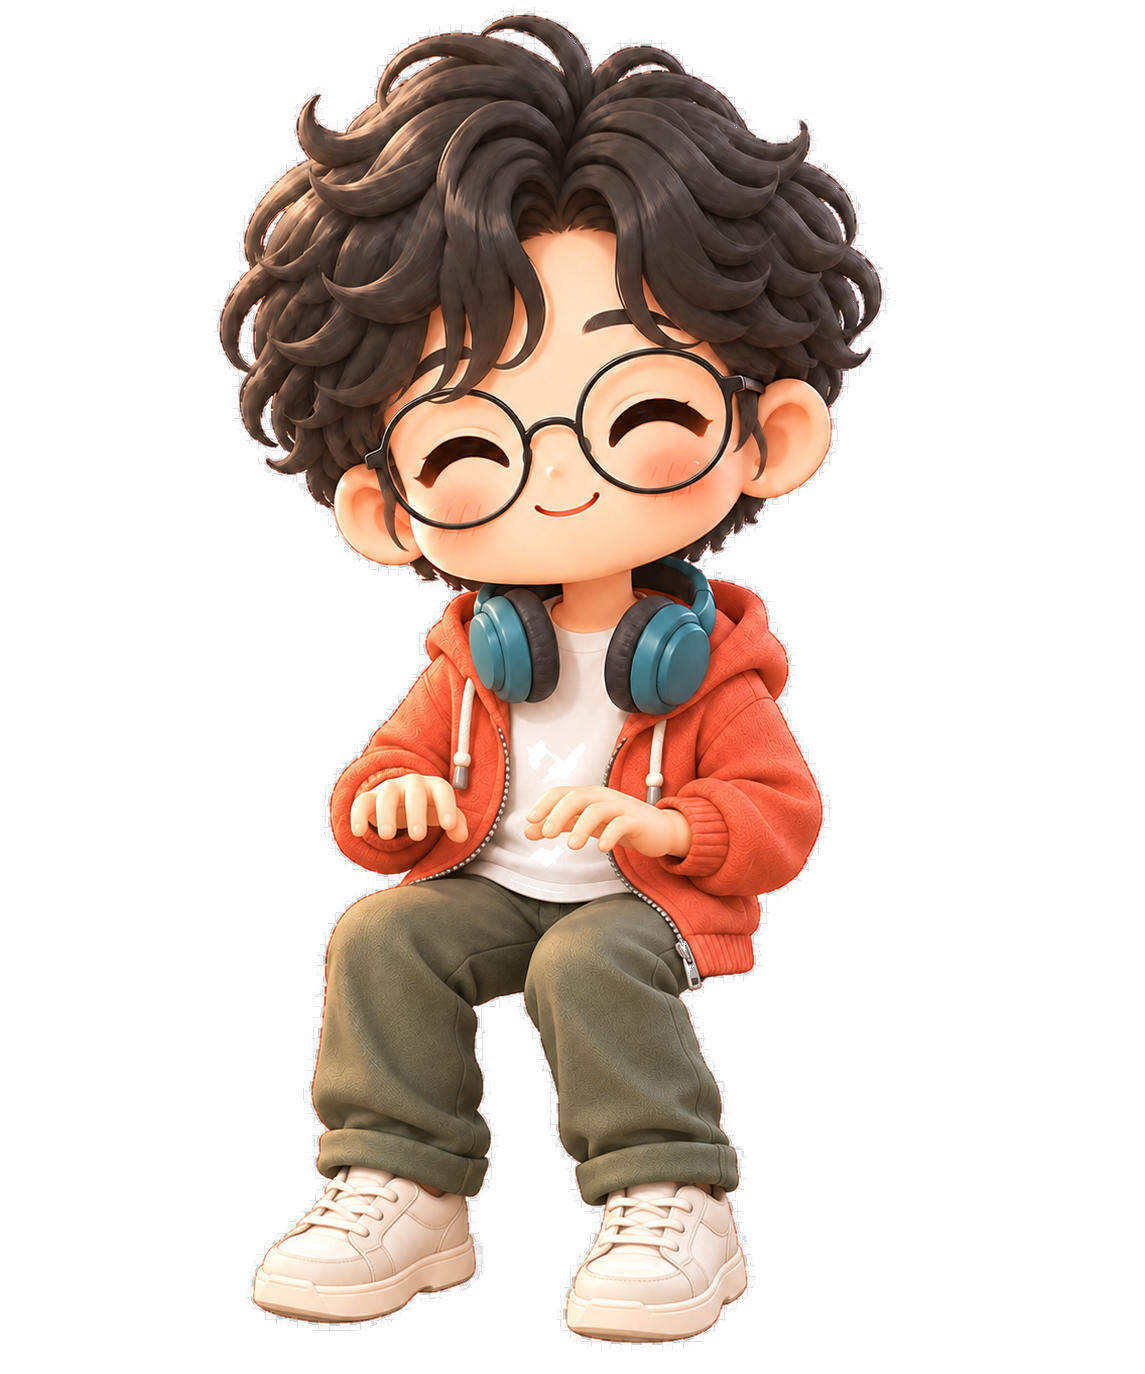
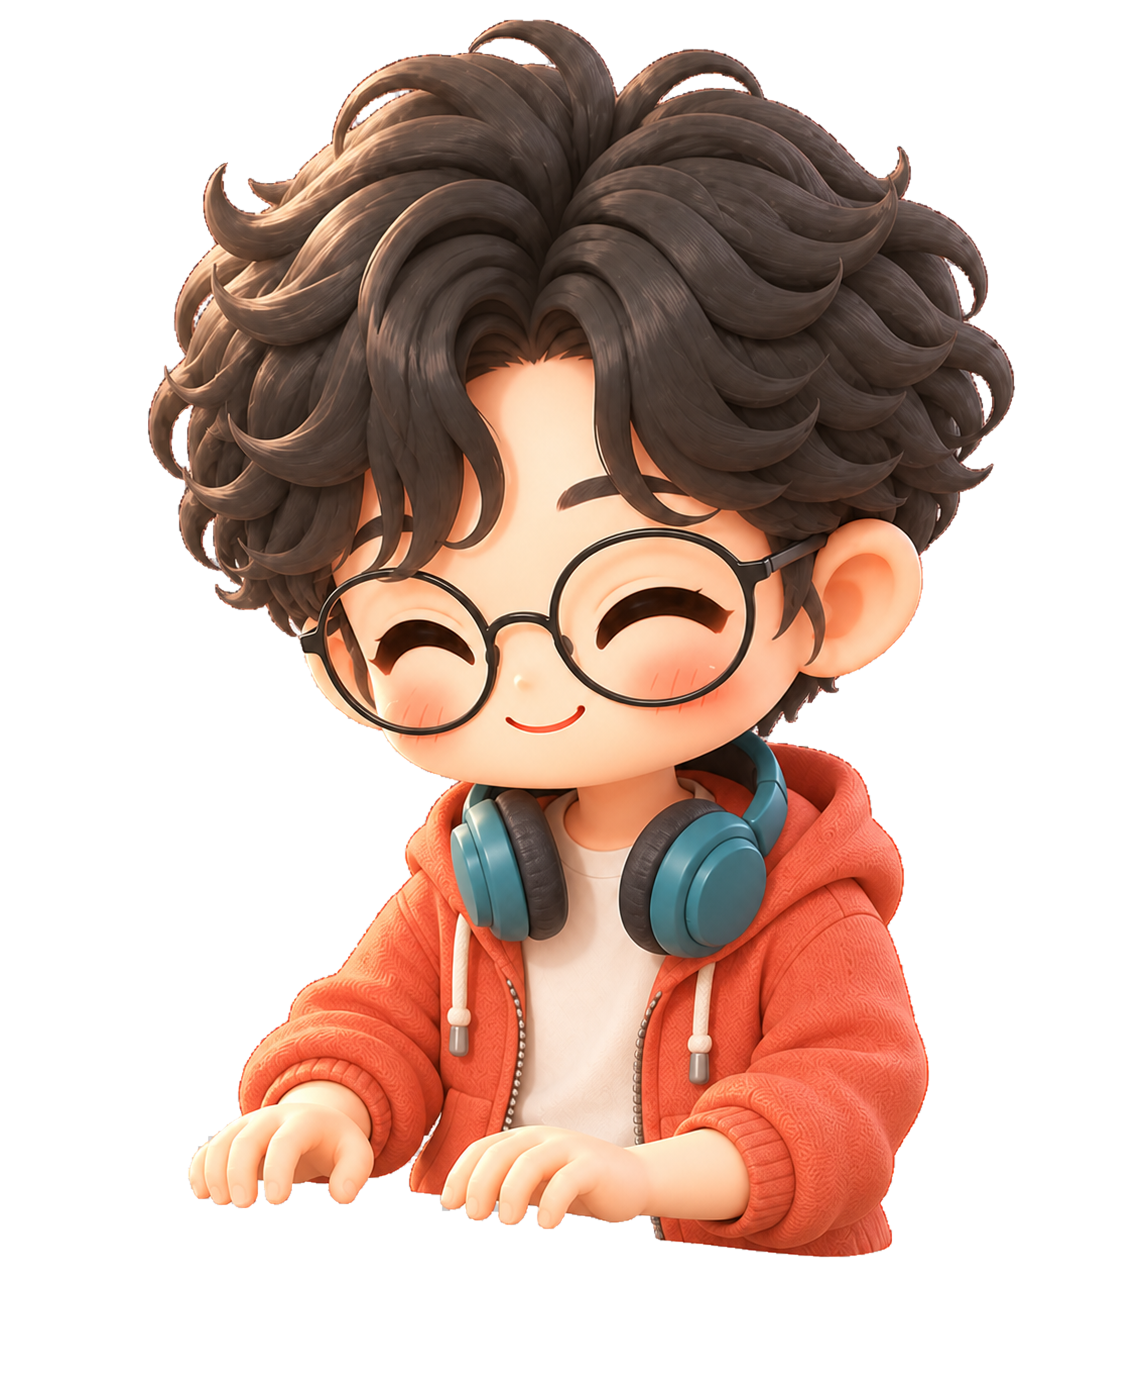
feat(console): 걸음 원화 스무 명 전원과 허리 없는 착석 원화 — 뛰던 걸음과 관통하던 책상을 함께 잡는다
에셋 두 벌이 들어와 코드가 그것을 쓰게 한다(외부 제작).

**걸음 원화가 일곱 명에서 스무 명 전원으로 늘었다.** 그림이 없는 열세 명은
상하 흔들림(bob)이 유일한 움직임이라 다리가 멈춘 채 몸만 튀었다 — 사용자가
"통통 뛰어다닌다" 고 본 것이 이것이다. bob 을 그림이 있을 때만 얹도록 바꿨고,
이제 전원이 그림을 가져 검사가 항상 참이지만 그대로 둔다. 원화가 빠지거나 새
인덱스가 늘어나는 순간 같은 증상이 조용히 돌아오는 자리다.

**`sit` 원화가 허리 아래 없이 팔을 앞으로 뻗은 그림으로 다시 그려졌다**(일곱 명).
책상 뒤에 놓으면 다리가 샐 자리가 없어 "책상을 관통한" 인상이 사라진다 — 좌석
높이를 세 번 옮기고 의자를 넣고 가림판까지 대 봤지만 남던 어긋남이었다. 원인은
옛 `sit`·`typing` 이 "의자에 앉아 다리를 뻗은" 정면 그림이라 3/4 시점 책상과
원근이 맞지 않는 것이었고, 값으로는 잘리는 위치만 바뀌었다.

그래서 `typing` 요청이 **앉은 그림을 먼저 보게** 한다. 새 `sit` 이 이미 타이핑
자세라 `typing` 원화를 따로 쓸 이유가 없고, 그쪽은 옛 그림이라 같은 어긋남을
그대로 갖는다. 아직 안 바뀐 인덱스를 위해 `typing` 은 대체로 남긴다.

에셋 검사도 걸음 일곱 장이 아니라 **전원**을 요구하도록 넓혔다(외부 변경 반영).

검증: swift build · ConsoleCoreTests 9895건 · --asset-check(걸음 20장) ·
--color-check · `--busy-demo` 전체 렌더에서 교체된 인덱스가 상반신만으로
책상에 앉는 것 육안 확인.

diff --git a/clients/idaeri-console/Sources/ConsoleCoreTests/OfficeChoreographyTests.swift b/clients/idaeri-console/Sources/ConsoleCoreTests/OfficeChoreographyTests.swift
@@ -189,10 +189,13 @@ func runCozyPoseContractTests(_ t: TestRunner) {
         resolveCozyPose(requested: "typing", assetIndex: 10, hasAsset: cozyPoseAssetExists(10)),
         ResolvedCozyPose(pose: "sit", posture: .seated),
         "타이핑 그림이 없으면 기본 그림이 아니라 앉은 그림")
+    // 타이핑 요청은 **앉은 그림을 먼저 본다.** `sit` 원화가 허리 아래 없이 팔을 앞으로
+    // 뻗은 그림으로 다시 그려져, 책상 뒤에서 다리가 샐 자리가 없다. 옛 `typing` 원화는
+    // 의자에 앉아 다리를 뻗은 그림이라 3/4 시점 책상과 원근이 어긋난다.
     t.expectEqual(
         resolveCozyPose(requested: "typing", assetIndex: 0, hasAsset: cozyPoseAssetExists(0)),
-        ResolvedCozyPose(pose: "typing", posture: .seated),
-        "타이핑 그림이 있으면 그대로")
+        ResolvedCozyPose(pose: "sit", posture: .seated),
+        "타이핑 요청은 앉은 그림으로 해결한다")
     // 18번 `typing` 은 태블릿을 들고 **서 있는** 그림이다. 책상 좌석에 쓰면 혼자 선 채로 일한다.
     t.expectEqual(
         resolveCozyPose(requested: "typing", assetIndex: 18, hasAsset: cozyPoseAssetExists(18)),
@@ -237,17 +240,21 @@ func runCozyPoseContractTests(_ t: TestRunner) {
     // 인자를 생략하면 예전대로 요청 이름이 자세를 정한다(오피스 좌석 경로가 이 기본값을 쓴다).
     t.expectEqual(
         resolveCozyPose(requested: "typing", assetIndex: 1, hasAsset: cozyPoseAssetExists(1)),
-        ResolvedCozyPose(pose: "typing", posture: .seated),
-        "자세를 요구하지 않으면 typing 은 여전히 앉은 그림")
+        ResolvedCozyPose(pose: "sit", posture: .seated),
+        "자세를 요구하지 않으면 typing 은 여전히 앉은 자세로 해결된다")
 
-    // 걸음 그림 — 가진 사람은 그대로, 없는 사람은 정지 그림으로 접힌다(몸 기울기만 남는다).
+    // 걸음 그림 — 전 캐릭터가 전용 프레임을 가지며, 파일이 실제로 빠진 경우에는 여전히
+    // 정지 그림으로 안전하게 접힌다(몸 기울기만 남는다).
     t.expectEqual(
         resolveCozyPose(requested: "walk", assetIndex: 1, hasAsset: cozyPoseAssetExists(1)),
         ResolvedCozyPose(pose: "walk", posture: .standing),
         "걸음 그림이 있으면 그대로")
     t.expectEqual(
         resolveCozyPose(requested: "walk", assetIndex: 10, hasAsset: cozyPoseAssetExists(10)).pose,
-        cozyIdlePose, "걸음 그림이 없으면 정지 그림")
+        "walk", "10번도 전용 걸음 그림을 사용")
+    t.expectEqual(
+        resolveCozyPose(requested: "walk", assetIndex: 10, hasAsset: { _ in false }).pose,
+        cozyIdlePose, "걸음 그림 파일이 없으면 정지 그림")
 
     // 손에 든 물건이 뜻을 나르므로 가까운 자세로 옮긴다. 0번은 writing 이 있고, 2번은 writing
     // 없이 reading 만 있으며, 10번은 둘 다 없다.

diff --git a/clients/idaeri-console/Sources/IdaeriConsole/OfficeScene.swift b/clients/idaeri-console/Sources/IdaeriConsole/OfficeScene.swift
@@ -2879,10 +2879,13 @@ final class OfficeScene: SKScene {
                 // 해서 발을 떼는 쪽에 힘이 실린다. 진폭이 작아 "튄다" 가 아니라 걸음의 무게로만
                 // 읽힌다 — 크게 주면 다시 뛰는 것처럼 보인다.
                 // **걸음 그림이 있는 사람에게만 얹는다.** bob 은 그림 위에 더해지는 보조
-                // 신호인데, 그림이 없는 사람(스무 명 중 열셋)에게는 그것이 **유일한 움직임**이
-                // 되어 다리가 멈춘 채 몸만 위아래로 튄다 — 사용자가 "통통 뛰어다닌다" 고
-                // 본 것이 이것이다. 그림이 없으면 bob 없이 미끄러지듯 지나가는 편이
-                // 제자리뛰기보다 덜 어색하다.
+                // 신호인데, 그림이 없으면 그것이 **유일한 움직임**이 되어 다리가 멈춘 채
+                // 몸만 위아래로 튄다 — 사용자가 "통통 뛰어다닌다" 고 본 것이 이것이다.
+                // 걸음 원화가 일곱 명뿐이던 동안 열셋이 그 상태였다.
+                //
+                // 지금은 스무 명 전원이 걸음 그림을 가지고 있어 이 검사가 항상 참이지만
+                // 그대로 둔다. 원화가 빠지거나 새 인덱스가 늘어나는 순간 같은 증상이
+                // 조용히 돌아오는 자리이고, 검사 비용은 캐시된 존재 판정 한 번이다.
                 guard node.hasDedicatedArtwork(for: "walk") else {
                     return
                 }

diff --git a/clients/idaeri-console/Sources/ConsoleCore/OfficeChoreography.swift b/clients/idaeri-console/Sources/ConsoleCore/OfficeChoreography.swift
@@ -151,10 +151,13 @@ public func cozyPoseCandidates(_ normalized: String) -> [String] {
     switch normalized {
     case "sit":
         return ["sit"]
-    // 타이핑 그림이 없으면 **앉은 그림**으로 내려간다. `idle`(서 있는 그림)로 내려가면
-    // 책상 좌석에서 그 사람만 책상 위에 올라선 것처럼 보인다.
+    // **앉은 그림을 먼저 본다.** `sit` 원화는 허리 아래가 없고 팔을 앞으로 뻗은 그림으로
+    // 다시 그려졌다 — 책상 뒤에 놓으면 다리가 샐 자리가 없어 "책상을 관통한" 인상이
+    // 사라진다(사용자 보고로 재제작). 그 자세가 이미 타이핑이라 `typing` 원화를 따로
+    // 쓸 이유가 없고, `typing` 은 의자에 앉아 다리를 뻗은 옛 그림이라 3/4 시점 책상과
+    // 원근이 어긋난다. 아직 안 바뀐 인덱스를 위해 `typing` 은 대체로 남긴다.
     case "typing":
-        return ["typing", "sit"]
+        return ["sit", "typing"]
     case "reading":
         return ["reading"]
     case "writing":

diff --git a/clients/idaeri-console/Sources/IdaeriConsole/CozyAssetCheck.swift b/clients/idaeri-console/Sources/IdaeriConsole/CozyAssetCheck.swift
@@ -109,7 +109,7 @@ func runCozyAssetCheck() -> Bool {
             valid = false
         }
     }
-    let requiredWalkAssets = [1, 2, 3, 16, 17, 18, 19].map { "agent-\($0)-walk" }
+    let requiredWalkAssets = (0..<cozyCharacterAssetCount).map { "agent-\($0)-walk" }
     for name in requiredWalkAssets {
         guard let url = Bundle.module.url(
             forResource: name, withExtension: "png", subdirectory: "cozy/characters"
@@ -151,7 +151,7 @@ func runCozyAssetCheck() -> Bool {
     // 걸음 그림이 **실제로 화면에 쓰이는지**를 계약 쪽에서 확인한다. 파일이 번들에 들어간
     // 것만 보면, 포즈 계약이 그 이름을 모르는 채여도 초록불이 된다 — 가구가 그려진 원화
     // 셋이 정확히 그 방식으로 조용히 안 쓰이고 있었다.
-    for index in [1, 2, 3, 16, 17, 18, 19] {
+    for index in 0..<cozyCharacterAssetCount {
         let resolved = resolveCozyPose(
             requested: "walk",
             assetIndex: index,
